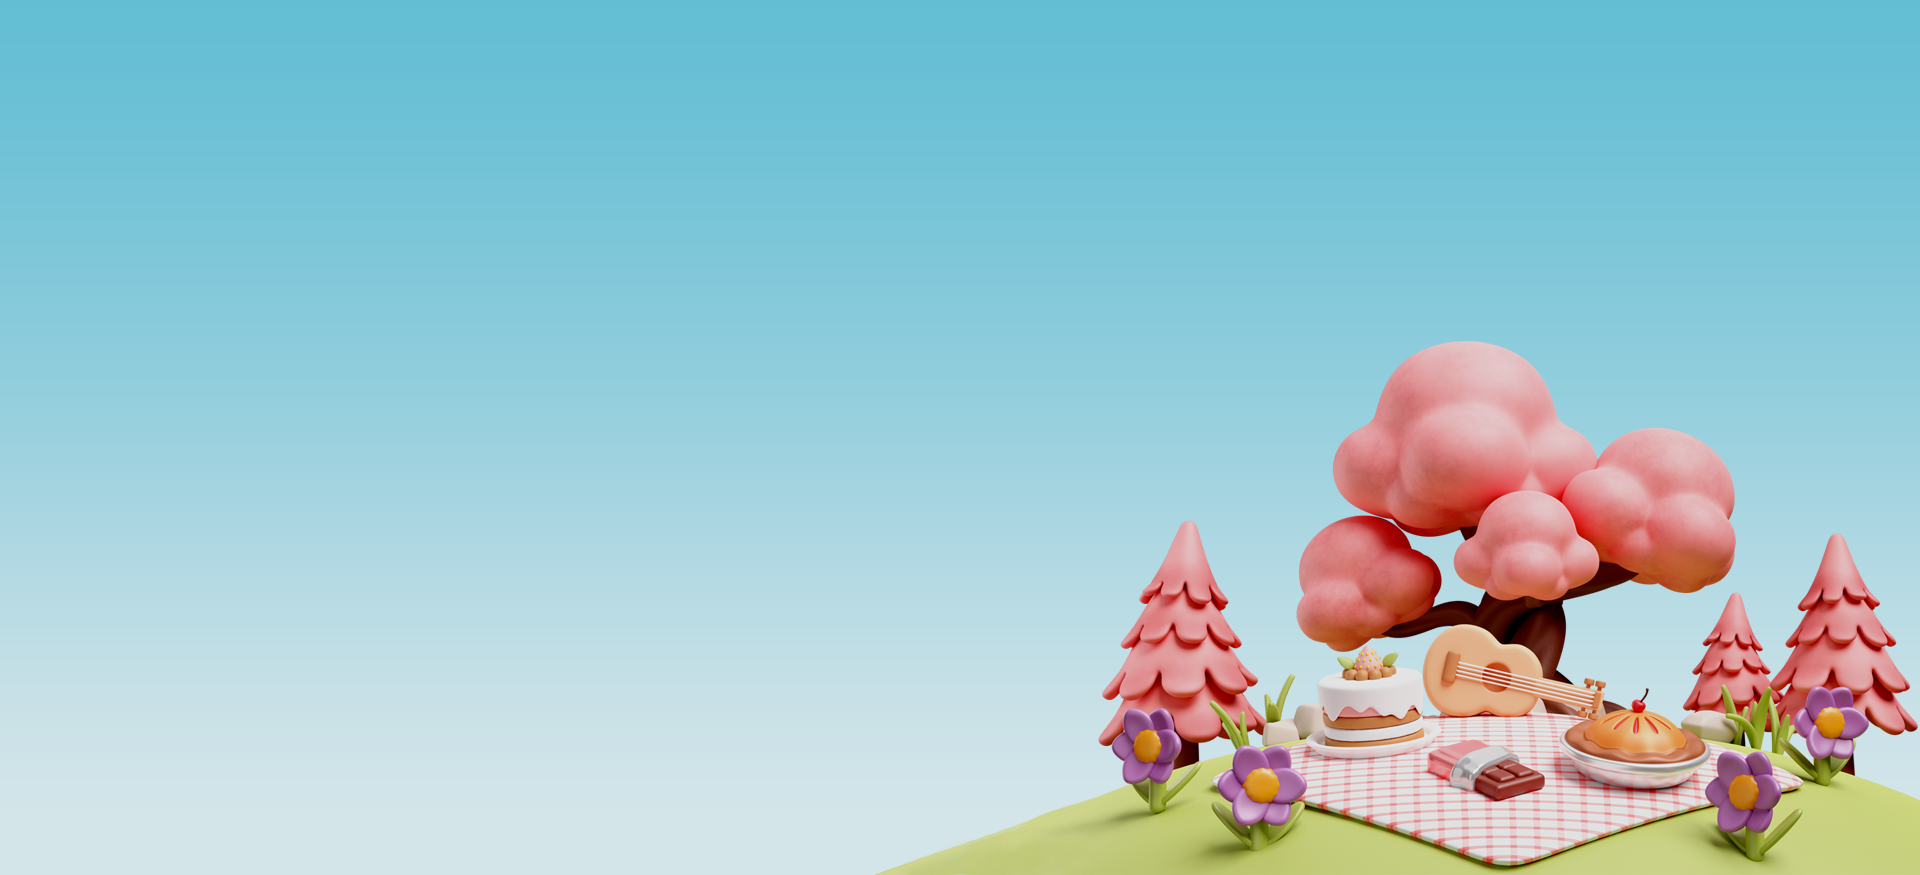
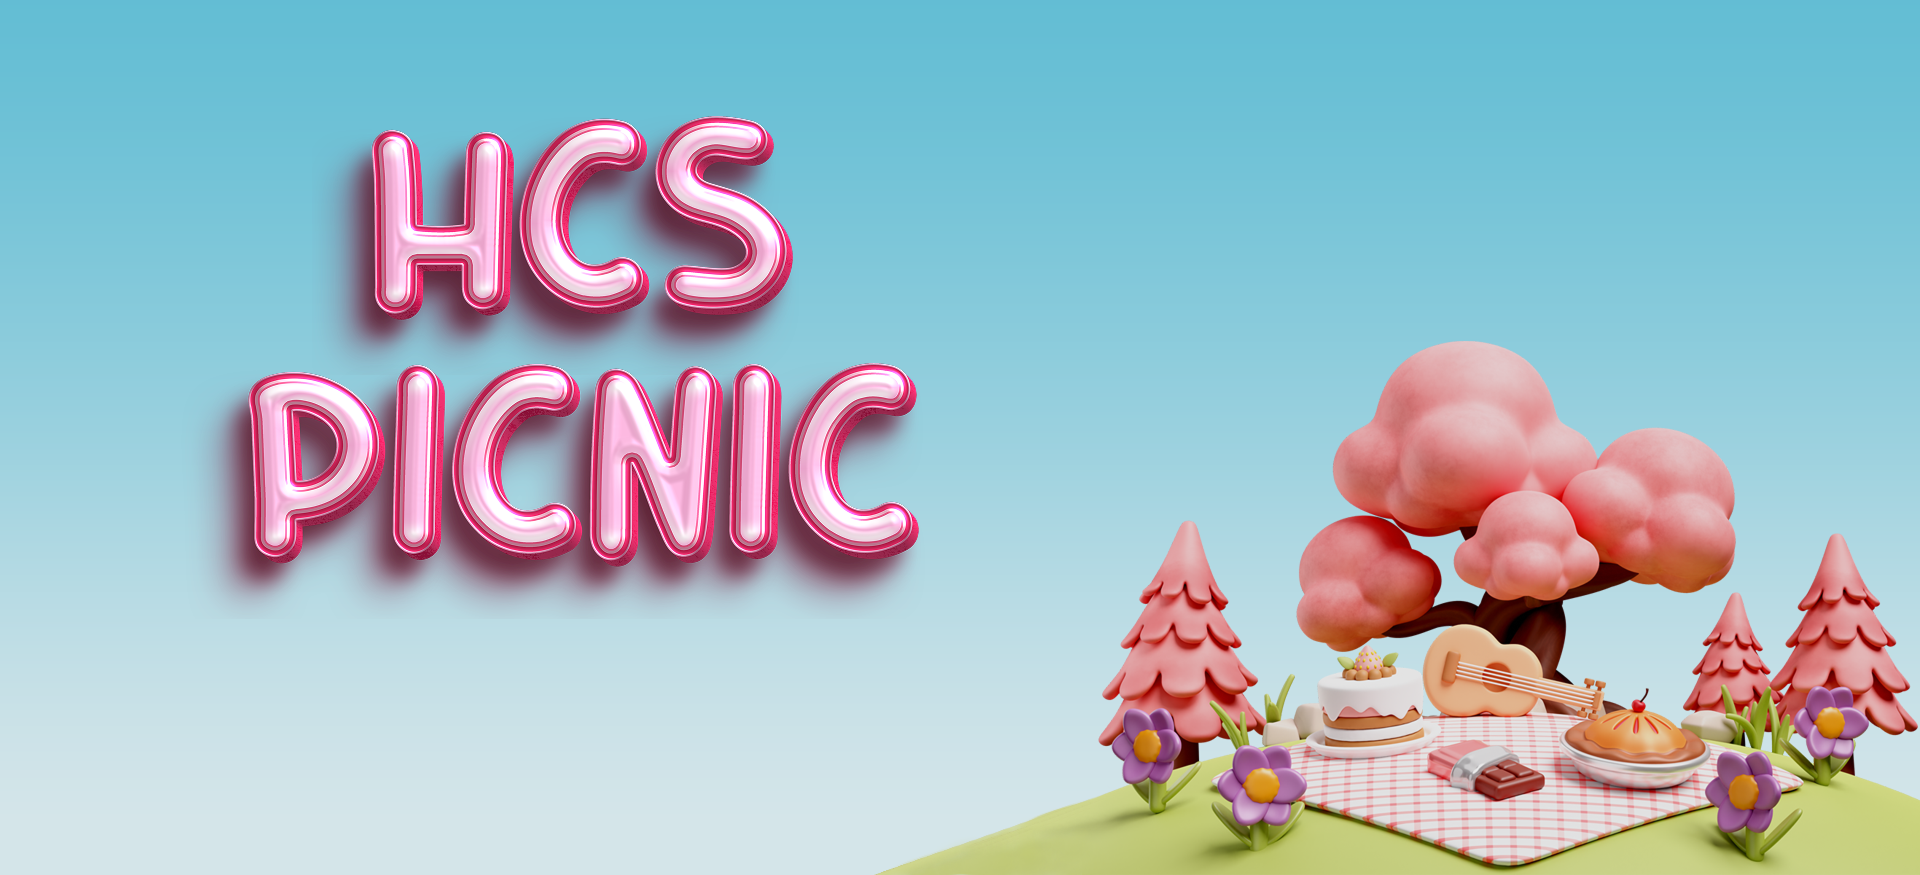
event 배너 수정, 팝업 페이지 연결

Changed region(s): [[0.0938, 0.1234, 0.5, 0.7097]]

diff --git a/index.html b/index.html
@@ -51,6 +51,33 @@
   <body>
     <!-- gotop버튼 -->
     <button id="goTop"><i class="fa-solid fa-arrow-up"></i></button>
+    <!-- 팝업창 -->
+    <div class="popup">
+      <img src="images/popup-02.png" alt="팝업창이미지" />
+      <span class="step_title popup_txt"><b>해치스와 함께하는 봄 피크닉</b></span>
+      <p class="popup_title">
+        떡볶이 먹고
+        <br />
+        피크닉 매트도 받자!
+      </p>
+      <a href="event_01.html" class="eventLink">
+        이벤트 더보기
+        <i class="fa-solid fa-angle-right"></i>
+      </a>
+      <div class="gif_box">
+        <img src="images/mat.gif" alt="피크닉매트gif" />
+      </div>
+      <div class="closed">
+        <div class="todayBtn">
+          <input type="checkbox" />
+          <label for="">오늘 하루 보지 않기</label>
+        </div>
+        <button class="closeBtn">
+          닫기
+          <i class="fa-solid fa-xmark"></i>
+        </button>
+      </div>
+    </div>
     <!-- 전체 -->
     <div class="wrap">
       <!-- 헤더 -->
@@ -189,6 +216,14 @@
           <div class="swiper-slide">
             <img src="images/banner3.png" alt="웹배너" class="webbanner" />
             <img src="images/m_banner3.png" alt="모바일배너" class="mobilebanner" />
+          </div>
+          <div class="swiper-slide">
+            <img src="images/event_web_banner.png" alt="웹배너" class="webbanner" />
+            <img src="images/event_tabmo_banner.png" alt="모바일배너" class="mobilebanner" />
+            <a href="event_01.html" class="event_link">
+              피크닉 세트 구성 보러가기
+              <i class="fa-solid fa-angle-right"></i>
+            </a>
           </div>
         </div>
       </section>

diff --git a/css/popup.css b/css/popup.css
@@ -1,0 +1,73 @@
+@charset "utf-8";
+.popup {
+  /* display: none; */
+  position: fixed;
+  top: 5%;
+  left: 5%;
+  width: 600px;
+  height: 800px;
+  z-index: 99999;
+  font-family: "Do Hyeon", sans-serif;
+  border-radius: 30px;
+  overflow: hidden;
+  box-shadow: 0px 0px 8px rgba(0, 0, 0, 0.5);
+}
+.popup > img {
+  width: 100%;
+  display: block;
+}
+.popup_txt {
+  position: absolute;
+  top: 70px;
+  left: 50%;
+  transform: translateX(-50%);
+  font-size: 24px;
+}
+.popup_title {
+  position: absolute;
+  top: 164px;
+  left: 50%;
+  transform: translateX(-50%);
+  font-size: 55px;
+  text-align: center;
+  width: 100%;
+}
+.eventLink {
+  position: absolute;
+  top: 311px;
+  left: 50%;
+  transform: translateX(-50%);
+  background-color: #ffe0e1;
+  color: #d52517;
+  padding: 10px 22px 8px 28px;
+  border-radius: 30px;
+  font-size: 20px;
+  box-shadow: 0px 2px 4px rgba(0, 0, 0, 0.2);
+}
+.gif_box {
+  width: 316px;
+  position: absolute;
+  bottom: 97px;
+  left: 147px;
+}
+.gif_box > img {
+  width: 100%;
+}
+.closed {
+  width: 100%;
+  position: absolute;
+  bottom: 0;
+  font-family: "Noto Sans", sans-serif;
+  font-size: 14px;
+  background-color: #eee;
+  display: flex;
+  padding: 10px;
+  align-items: center;
+  justify-content: center;
+  gap: 20px;
+}
+.closeBtn {
+  border: none;
+  cursor: pointer;
+  background: none;
+}

diff --git a/css/visual.css b/css/visual.css
@@ -12,10 +12,27 @@
   display: none;
 }
 
+/* 이벤트 배너 내용 */
+.event_link {
+  position: absolute;
+  bottom: 15%;
+  left: 15%;
+  background-color: #ffb4b8;
+  padding: 1% 3% 1% 4%;
+  border-radius: 40px;
+  font-family: "Do Hyeon", sans-serif;
+  font-size: clamp(16px, 2.5vw, 30px);
+}
+
 /* 반응형 */
 @media (max-width: 768px) {
   .visualSwiper .swiper-wrapper .swiper-slide .webbanner {
     display: none;
+  }
+  .event_link {
+    bottom: 45%;
+    left: 50%;
+    transform: translateX(-50%);
   }
   .visualSwiper .swiper-wrapper .swiper-slide .mobilebanner {
     display: block;

diff --git a/js/main.js b/js/main.js
@@ -129,4 +129,11 @@ window.addEventListener("load", function () {
       gotopBtn.style.display = "none";
     }
   });
+
+  // 팝업창 닫기
+  const popup = this.document.querySelector(".popup");
+  const closeBtn = this.document.querySelector(".closeBtn");
+  closeBtn.addEventListener("click", function () {
+    popup.style.display = "none";
+  });
 }); //End

diff --git a/css/main.css b/css/main.css
@@ -9,6 +9,7 @@
 @import url("lower_banner.css");
 @import url("footer.css");
 @import url("event_01.css");
+@import url("popup.css");
 * {
   margin: 0;
   padding: 0;
